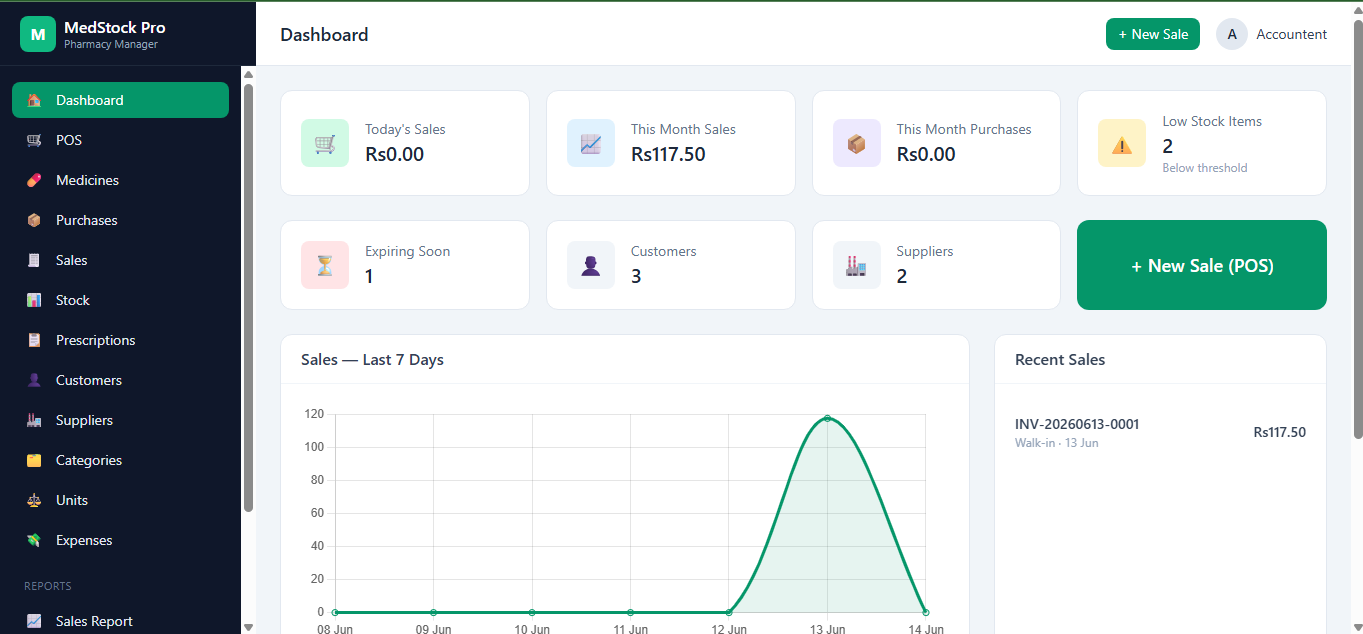
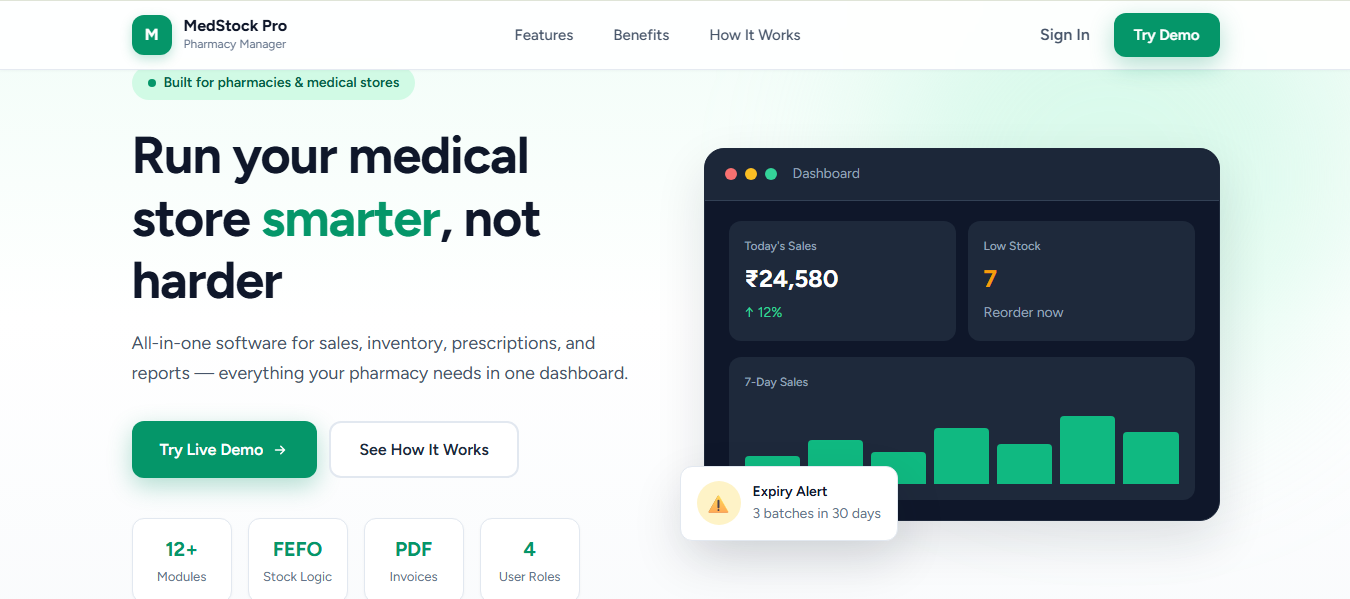
new app school management syste added

diff --git a/index.html b/index.html
@@ -584,7 +584,7 @@
                             <div class="portfolio-item-inner shadow-dark">
                                 <div class="portfolio-img">
                                     <a href="https://lawyers.saifpindiautos.com" target="_blank" rel="noopener noreferrer">
-                                        <img src="image/lawyersapp.png" alt="Best MCQs Website">
+                                        <img src="image/lawyersapp.png" alt="Lawyers App">
                                     </a>
                                 </div>
                                 <div class="portfolio-info">
@@ -598,14 +598,14 @@
                         <div class="portfolio-item padd-15">
                             <div class="portfolio-item-inner shadow-dark">
                                 <div class="portfolio-img">
-                                    <a href="https://skoolyst.com" target="_blank" rel="noopener noreferrer">
-                                        <img src="image/large_6.jpg" alt="Skoolyst Web App">
+                                    <a href="https://sms.saifpindiautos.com/" target="_blank" rel="noopener noreferrer">
+                                        <img src="image/schoolmanagementsystem.png" alt="School Management System">
                                     </a>
                                 </div>
                                 <div class="portfolio-info">
-                                    <h4 class="portfolio-title">Skoolyst Web App</h4>
-                                    <p class="portfolio-desc">Full-stack web application powering Skoolyst's educational ecosystem with modern UI, secure auth, and scalable backend.</p>
-                                    <a href="https://skoolyst.com" target="_blank" rel="noopener noreferrer" class="portfolio-link">View Project <i class="fa fa-external-link-alt"></i></a>
+                                    <h4 class="portfolio-title">School Management System</h4>
+                                    <p class="portfolio-desc">A comprehensive solution for managing school operations, including student records, attendance, grades, and communication between staff and parents.</p>
+                                    <a href="https://sms.saifpindiautos.com/" target="_blank" rel="noopener noreferrer" class="portfolio-link">View Project <i class="fa fa-external-link-alt"></i></a>
                                 </div>
                             </div>
                         </div>